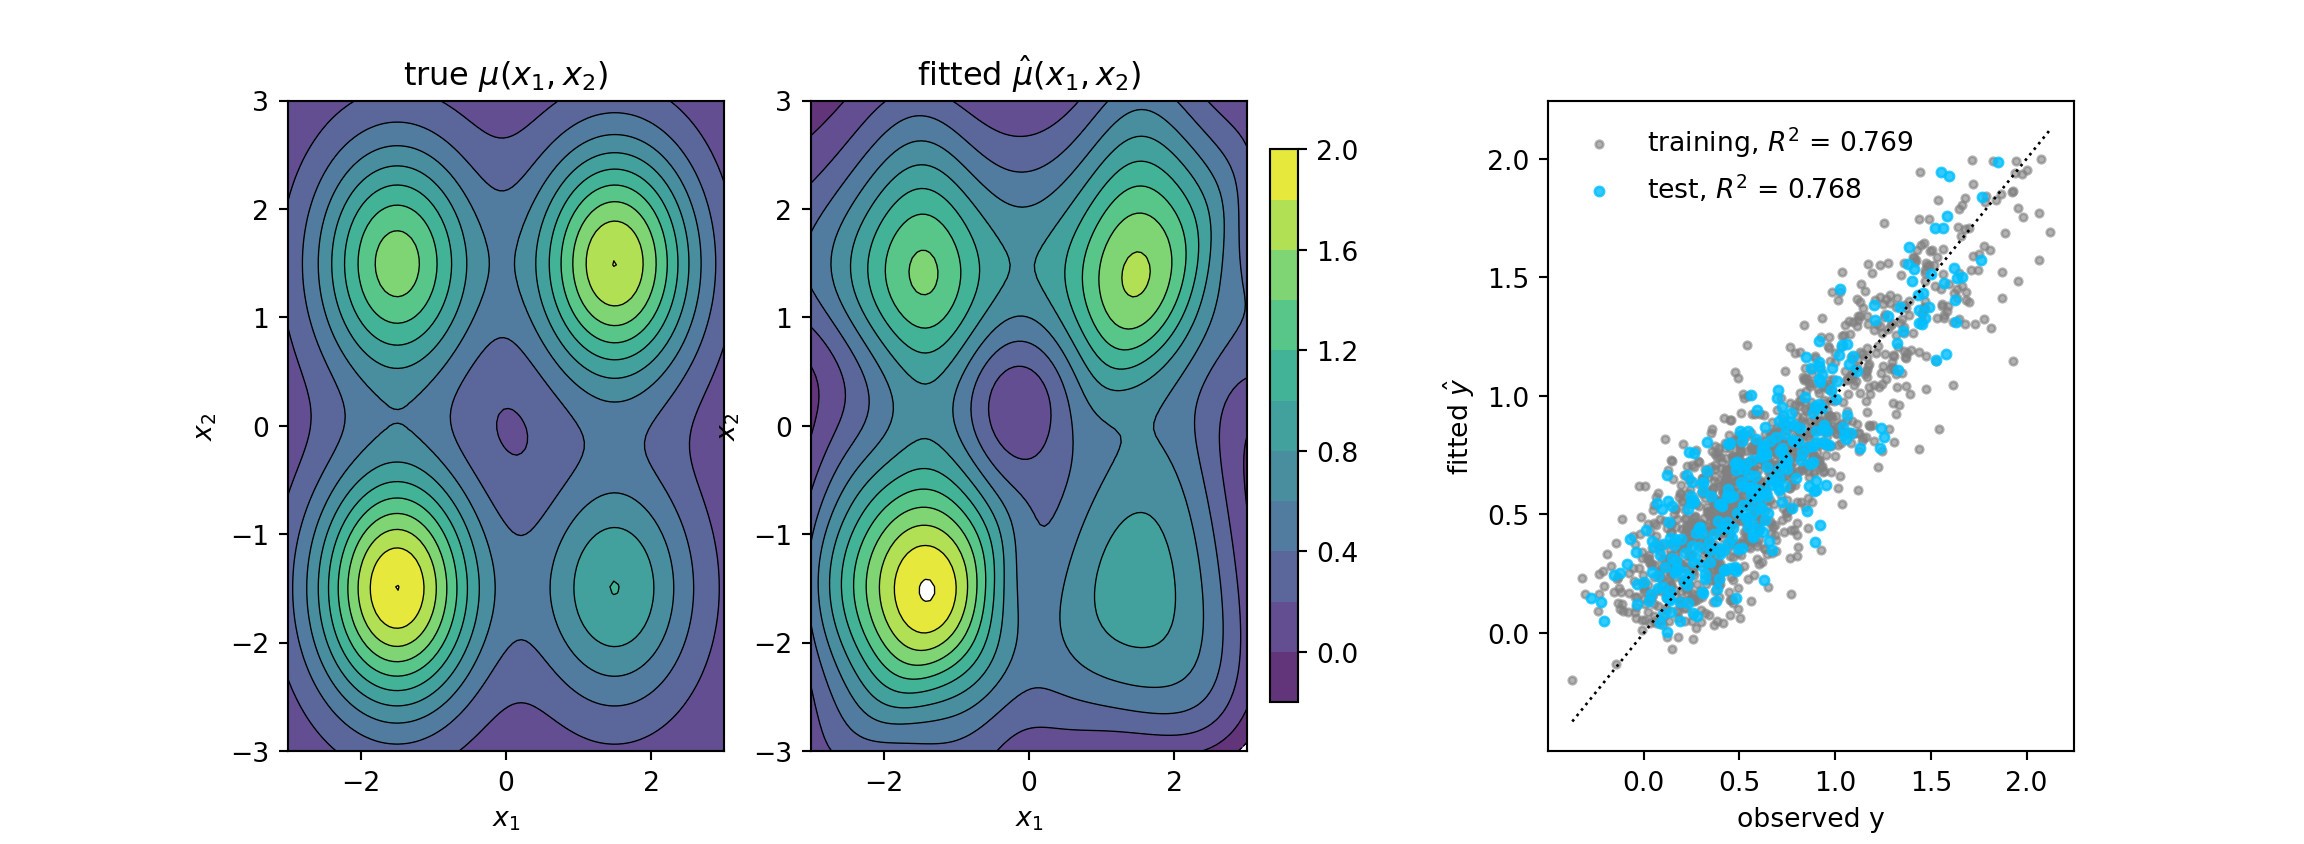
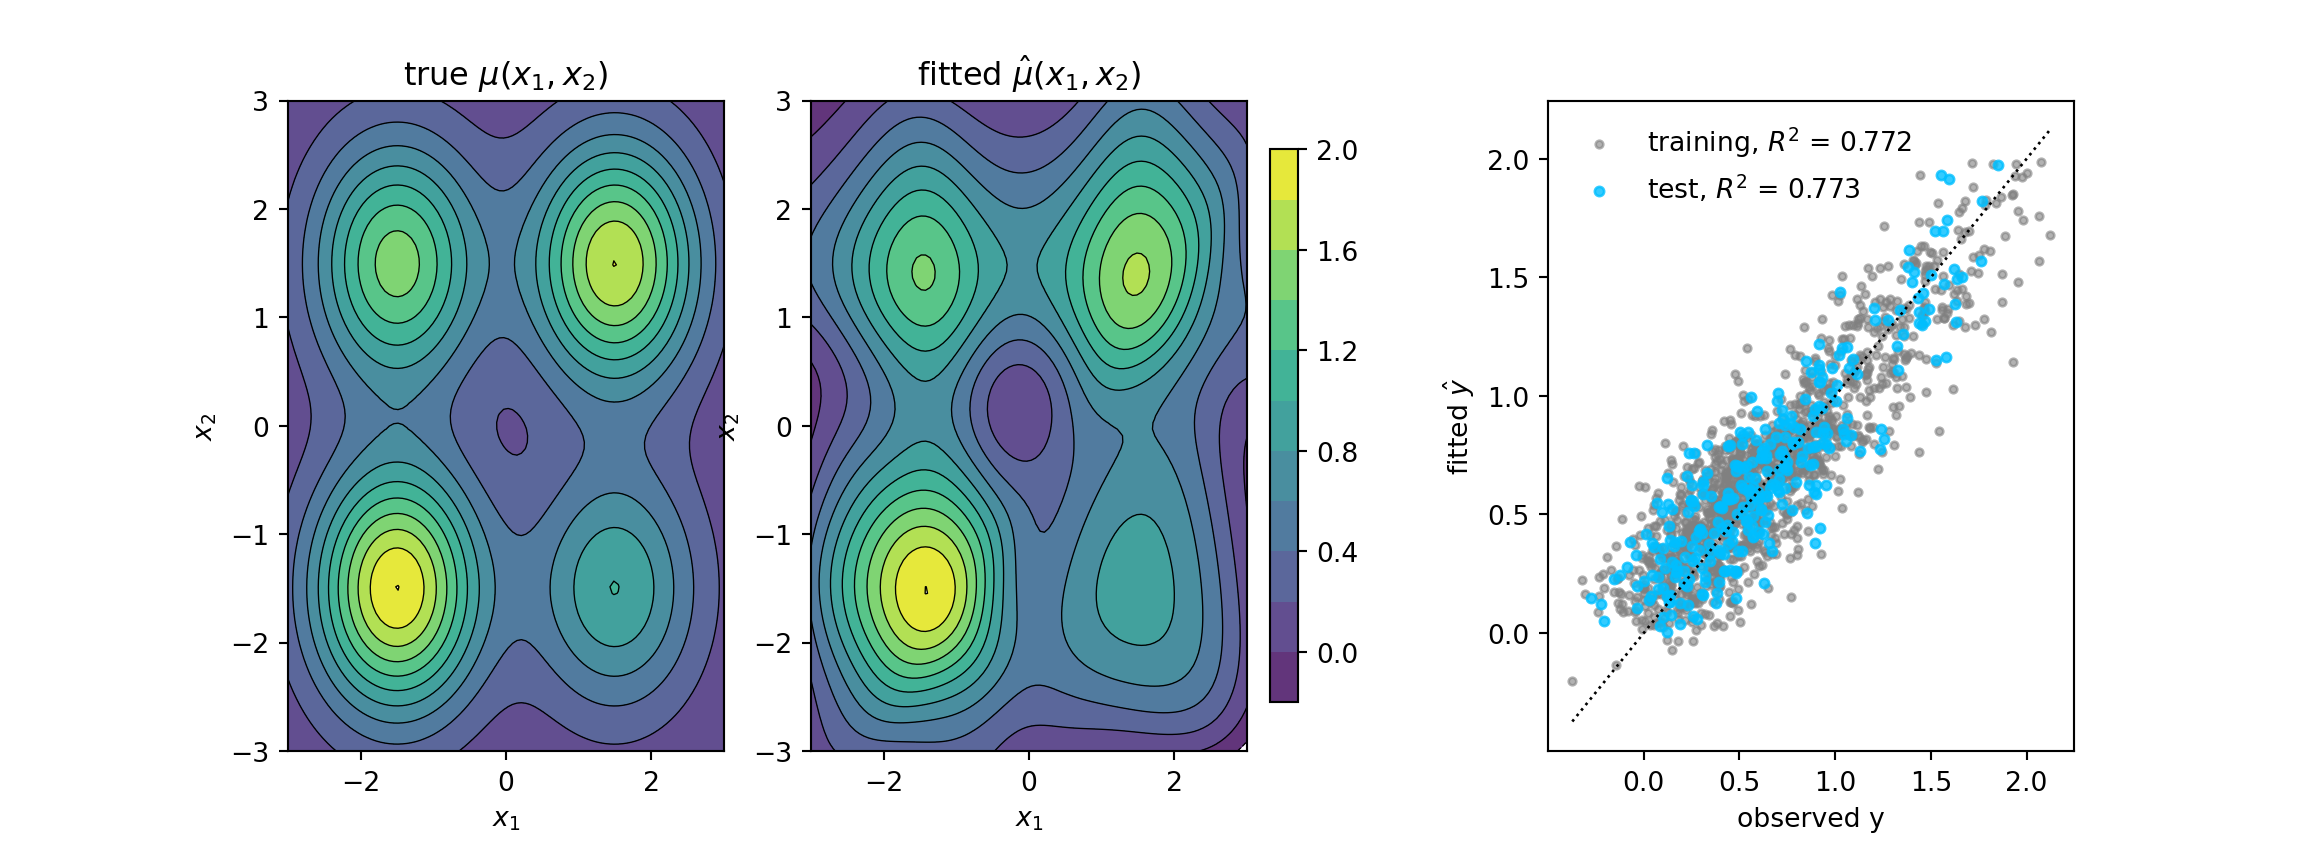
unit05_MLE: use legacy Adam in the TensorFlow example to avoid the M1/M2 slow-optimizer warning
Claude-Session: https://claude.ai/code/session_01Wh2Ga1BaKajzeVmhsLmQ8Y

diff --git a/compstat_book/chapters/unit05_MLE.html b/compstat_book/chapters/unit05_MLE.html
@@ -4801,53 +4801,51 @@ Table&nbsp;5.5: Lists the commonly used software for the optimization methods of
 <span id="cb86-45"><a href="#cb86-45" aria-hidden="true" tabindex="-1"></a>nll <span class="op">=</span> <span class="kw">lambda</span> y, dist: <span class="op">-</span>dist.log_prob(y)        <span class="co"># the loss: negative log-likelihood of the family</span></span>
 <span id="cb86-46"><a href="#cb86-46" aria-hidden="true" tabindex="-1"></a></span>
 <span id="cb86-47"><a href="#cb86-47" aria-hidden="true" tabindex="-1"></a>model <span class="op">=</span> nn_model(p<span class="op">=</span><span class="dv">2</span>, hidden<span class="op">=</span><span class="dv">16</span>, family<span class="op">=</span><span class="st">"gaussian"</span>)</span>
-<span id="cb86-48"><a href="#cb86-48" aria-hidden="true" tabindex="-1"></a>model.<span class="bu">compile</span>(optimizer<span class="op">=</span>tf.keras.optimizers.Adam(learning_rate<span class="op">=</span><span class="fl">0.01</span>), loss<span class="op">=</span>nll)</span></code></pre></div><button title="Copy to Clipboard" class="code-copy-button"><i class="bi"></i></button></div>
+<span id="cb86-48"><a href="#cb86-48" aria-hidden="true" tabindex="-1"></a><span class="co"># legacy.Adam is the same algorithm; the new Adam is slow on Apple-silicon Macs in tf_keras</span></span>
+<span id="cb86-49"><a href="#cb86-49" aria-hidden="true" tabindex="-1"></a>model.<span class="bu">compile</span>(optimizer<span class="op">=</span>tf.keras.optimizers.legacy.Adam(learning_rate<span class="op">=</span><span class="fl">0.01</span>), loss<span class="op">=</span>nll)</span>
+<span id="cb86-50"><a href="#cb86-50" aria-hidden="true" tabindex="-1"></a>history <span class="op">=</span> model.fit(x_tr, y_tr, batch_size<span class="op">=</span><span class="dv">50</span>, epochs<span class="op">=</span><span class="dv">600</span>, verbose<span class="op">=</span><span class="dv">0</span>)   <span class="co"># one epoch = 1200/50 mini-batch steps</span></span>
+<span id="cb86-51"><a href="#cb86-51" aria-hidden="true" tabindex="-1"></a></span>
+<span id="cb86-52"><a href="#cb86-52" aria-hidden="true" tabindex="-1"></a>floor <span class="op">=</span> <span class="fl">0.5</span> <span class="op">*</span> np.log(<span class="dv">2</span> <span class="op">*</span> np.pi) <span class="op">+</span> sigma<span class="op">**</span><span class="dv">2</span> <span class="op">/</span> <span class="dv">2</span>    <span class="co"># smallest expected nll per observation</span></span>
+<span id="cb86-53"><a href="#cb86-53" aria-hidden="true" tabindex="-1"></a><span class="bu">print</span>(<span class="st">"training loss:"</span>, history.history[<span class="st">"loss"</span>][<span class="op">-</span><span class="dv">1</span>], <span class="st">"  noise floor:"</span>, floor)</span></code></pre></div><button title="Copy to Clipboard" class="code-copy-button"><i class="bi"></i></button></div>
 <div class="cell-output cell-output-stdout">
-<pre><code>WARNING:absl:At this time, the v2.11+ optimizer `tf.keras.optimizers.Adam` runs slowly on M1/M2 Macs, please use the legacy TF-Keras optimizer instead, located at `tf.keras.optimizers.legacy.Adam`.</code></pre>
+<pre><code>training loss: 0.944736123085022   noise floor: 0.9389385332046727</code></pre>
 </div>
-<div class="code-copy-outer-scaffold"><div class="sourceCode cell-code" id="cb88"><pre class="sourceCode python code-with-copy"><code class="sourceCode python"><span id="cb88-1"><a href="#cb88-1" aria-hidden="true" tabindex="-1"></a>history <span class="op">=</span> model.fit(x_tr, y_tr, batch_size<span class="op">=</span><span class="dv">50</span>, epochs<span class="op">=</span><span class="dv">600</span>, verbose<span class="op">=</span><span class="dv">0</span>)   <span class="co"># one epoch = 1200/50 mini-batch steps</span></span>
-<span id="cb88-2"><a href="#cb88-2" aria-hidden="true" tabindex="-1"></a></span>
-<span id="cb88-3"><a href="#cb88-3" aria-hidden="true" tabindex="-1"></a>floor <span class="op">=</span> <span class="fl">0.5</span> <span class="op">*</span> np.log(<span class="dv">2</span> <span class="op">*</span> np.pi) <span class="op">+</span> sigma<span class="op">**</span><span class="dv">2</span> <span class="op">/</span> <span class="dv">2</span>    <span class="co"># smallest expected nll per observation</span></span>
-<span id="cb88-4"><a href="#cb88-4" aria-hidden="true" tabindex="-1"></a><span class="bu">print</span>(<span class="st">"training loss:"</span>, history.history[<span class="st">"loss"</span>][<span class="op">-</span><span class="dv">1</span>], <span class="st">"  noise floor:"</span>, floor)</span></code></pre></div><button title="Copy to Clipboard" class="code-copy-button"><i class="bi"></i></button></div>
-<div class="cell-output cell-output-stdout">
-<pre><code>training loss: 0.9447306394577026   noise floor: 0.9389385332046727</code></pre>
-</div>
-<div class="code-copy-outer-scaffold"><div class="sourceCode cell-code" id="cb90"><pre class="sourceCode python code-with-copy"><code class="sourceCode python"><span id="cb90-1"><a href="#cb90-1" aria-hidden="true" tabindex="-1"></a><span class="bu">print</span>(<span class="st">"number of weights:"</span>, model.count_params())</span></code></pre></div><button title="Copy to Clipboard" class="code-copy-button"><i class="bi"></i></button></div>
+<div class="code-copy-outer-scaffold"><div class="sourceCode cell-code" id="cb88"><pre class="sourceCode python code-with-copy"><code class="sourceCode python"><span id="cb88-1"><a href="#cb88-1" aria-hidden="true" tabindex="-1"></a><span class="bu">print</span>(<span class="st">"number of weights:"</span>, model.count_params())</span></code></pre></div><button title="Copy to Clipboard" class="code-copy-button"><i class="bi"></i></button></div>
 <div class="cell-output cell-output-stdout">
 <pre><code>number of weights: 65</code></pre>
 </div>
-<div class="code-copy-outer-scaffold"><div class="sourceCode cell-code" id="cb92"><pre class="sourceCode python code-with-copy"><code class="sourceCode python"><span id="cb92-1"><a href="#cb92-1" aria-hidden="true" tabindex="-1"></a><span class="co"># fitted values, and R^2 = 1 - SSE / SST on each set</span></span>
-<span id="cb92-2"><a href="#cb92-2" aria-hidden="true" tabindex="-1"></a>r2 <span class="op">=</span> <span class="kw">lambda</span> y, yhat: <span class="dv">1</span> <span class="op">-</span> np.<span class="bu">sum</span>((y <span class="op">-</span> yhat)<span class="op">**</span><span class="dv">2</span>) <span class="op">/</span> np.<span class="bu">sum</span>((y <span class="op">-</span> y.mean())<span class="op">**</span><span class="dv">2</span>)</span>
-<span id="cb92-3"><a href="#cb92-3" aria-hidden="true" tabindex="-1"></a>yhat_tr <span class="op">=</span> model.predict(x_tr, verbose<span class="op">=</span><span class="dv">0</span>)</span>
-<span id="cb92-4"><a href="#cb92-4" aria-hidden="true" tabindex="-1"></a>yhat_te <span class="op">=</span> model.predict(x_te, verbose<span class="op">=</span><span class="dv">0</span>)</span>
-<span id="cb92-5"><a href="#cb92-5" aria-hidden="true" tabindex="-1"></a></span>
-<span id="cb92-6"><a href="#cb92-6" aria-hidden="true" tabindex="-1"></a><span class="co"># the true and the fitted mean on a grid, drawn with the same contour levels</span></span>
-<span id="cb92-7"><a href="#cb92-7" aria-hidden="true" tabindex="-1"></a>g <span class="op">=</span> np.linspace(<span class="op">-</span><span class="dv">3</span>, <span class="dv">3</span>, <span class="dv">100</span>, dtype<span class="op">=</span><span class="st">"float32"</span>)</span>
-<span id="cb92-8"><a href="#cb92-8" aria-hidden="true" tabindex="-1"></a>G1, G2 <span class="op">=</span> np.meshgrid(g, g)</span>
-<span id="cb92-9"><a href="#cb92-9" aria-hidden="true" tabindex="-1"></a>grid <span class="op">=</span> np.column_stack([G1.ravel(), G2.ravel()])</span>
-<span id="cb92-10"><a href="#cb92-10" aria-hidden="true" tabindex="-1"></a>Z_true <span class="op">=</span> mu_true(grid).reshape(G1.shape)</span>
-<span id="cb92-11"><a href="#cb92-11" aria-hidden="true" tabindex="-1"></a>Z_fit <span class="op">=</span> model.predict(grid, verbose<span class="op">=</span><span class="dv">0</span>).reshape(G1.shape)</span>
-<span id="cb92-12"><a href="#cb92-12" aria-hidden="true" tabindex="-1"></a>levels <span class="op">=</span> np.linspace(<span class="op">-</span><span class="fl">0.2</span>, <span class="fl">2.0</span>, <span class="dv">12</span>)</span>
-<span id="cb92-13"><a href="#cb92-13" aria-hidden="true" tabindex="-1"></a></span>
-<span id="cb92-14"><a href="#cb92-14" aria-hidden="true" tabindex="-1"></a>fig, ax <span class="op">=</span> plt.subplots(<span class="dv">1</span>, <span class="dv">3</span>, figsize<span class="op">=</span>(<span class="dv">12</span>, <span class="fl">4.4</span>))</span>
-<span id="cb92-15"><a href="#cb92-15" aria-hidden="true" tabindex="-1"></a><span class="cf">for</span> a, Z, title <span class="kw">in</span> [(ax[<span class="dv">0</span>], Z_true, <span class="vs">r"true </span><span class="dv">$\m</span><span class="vs">u</span><span class="kw">(</span><span class="vs">x_1, x_2</span><span class="kw">)</span><span class="dv">$</span><span class="vs">"</span>), (ax[<span class="dv">1</span>], Z_fit, <span class="vs">r"fitted </span><span class="dv">$</span><span class="er">\</span><span class="vs">hat</span><span class="dv">\m</span><span class="vs">u</span><span class="kw">(</span><span class="vs">x_1, x_2</span><span class="kw">)</span><span class="dv">$</span><span class="vs">"</span>)]:</span>
-<span id="cb92-16"><a href="#cb92-16" aria-hidden="true" tabindex="-1"></a>    cs <span class="op">=</span> a.contourf(G1, G2, Z, levels<span class="op">=</span>levels, cmap<span class="op">=</span><span class="st">"viridis"</span>, alpha<span class="op">=</span><span class="fl">0.85</span>)</span>
-<span id="cb92-17"><a href="#cb92-17" aria-hidden="true" tabindex="-1"></a>    a.contour(G1, G2, Z, levels<span class="op">=</span>levels, colors<span class="op">=</span><span class="st">"k"</span>, linewidths<span class="op">=</span><span class="fl">0.5</span>)</span>
-<span id="cb92-18"><a href="#cb92-18" aria-hidden="true" tabindex="-1"></a>    a.set_title(title)<span class="op">;</span> a.set_xlabel(<span class="vs">r"</span><span class="dv">$</span><span class="vs">x_1</span><span class="dv">$</span><span class="vs">"</span>)<span class="op">;</span> a.set_ylabel(<span class="vs">r"</span><span class="dv">$</span><span class="vs">x_2</span><span class="dv">$</span><span class="vs">"</span>)</span>
-<span id="cb92-19"><a href="#cb92-19" aria-hidden="true" tabindex="-1"></a>fig.colorbar(cs, ax<span class="op">=</span>ax[:<span class="dv">2</span>], shrink<span class="op">=</span><span class="fl">0.85</span>, pad<span class="op">=</span><span class="fl">0.02</span>)</span></code></pre></div><button title="Copy to Clipboard" class="code-copy-button"><i class="bi"></i></button></div>
+<div class="code-copy-outer-scaffold"><div class="sourceCode cell-code" id="cb90"><pre class="sourceCode python code-with-copy"><code class="sourceCode python"><span id="cb90-1"><a href="#cb90-1" aria-hidden="true" tabindex="-1"></a><span class="co"># fitted values, and R^2 = 1 - SSE / SST on each set</span></span>
+<span id="cb90-2"><a href="#cb90-2" aria-hidden="true" tabindex="-1"></a>r2 <span class="op">=</span> <span class="kw">lambda</span> y, yhat: <span class="dv">1</span> <span class="op">-</span> np.<span class="bu">sum</span>((y <span class="op">-</span> yhat)<span class="op">**</span><span class="dv">2</span>) <span class="op">/</span> np.<span class="bu">sum</span>((y <span class="op">-</span> y.mean())<span class="op">**</span><span class="dv">2</span>)</span>
+<span id="cb90-3"><a href="#cb90-3" aria-hidden="true" tabindex="-1"></a>yhat_tr <span class="op">=</span> model.predict(x_tr, verbose<span class="op">=</span><span class="dv">0</span>)</span>
+<span id="cb90-4"><a href="#cb90-4" aria-hidden="true" tabindex="-1"></a>yhat_te <span class="op">=</span> model.predict(x_te, verbose<span class="op">=</span><span class="dv">0</span>)</span>
+<span id="cb90-5"><a href="#cb90-5" aria-hidden="true" tabindex="-1"></a></span>
+<span id="cb90-6"><a href="#cb90-6" aria-hidden="true" tabindex="-1"></a><span class="co"># the true and the fitted mean on a grid, drawn with the same contour levels</span></span>
+<span id="cb90-7"><a href="#cb90-7" aria-hidden="true" tabindex="-1"></a>g <span class="op">=</span> np.linspace(<span class="op">-</span><span class="dv">3</span>, <span class="dv">3</span>, <span class="dv">100</span>, dtype<span class="op">=</span><span class="st">"float32"</span>)</span>
+<span id="cb90-8"><a href="#cb90-8" aria-hidden="true" tabindex="-1"></a>G1, G2 <span class="op">=</span> np.meshgrid(g, g)</span>
+<span id="cb90-9"><a href="#cb90-9" aria-hidden="true" tabindex="-1"></a>grid <span class="op">=</span> np.column_stack([G1.ravel(), G2.ravel()])</span>
+<span id="cb90-10"><a href="#cb90-10" aria-hidden="true" tabindex="-1"></a>Z_true <span class="op">=</span> mu_true(grid).reshape(G1.shape)</span>
+<span id="cb90-11"><a href="#cb90-11" aria-hidden="true" tabindex="-1"></a>Z_fit <span class="op">=</span> model.predict(grid, verbose<span class="op">=</span><span class="dv">0</span>).reshape(G1.shape)</span>
+<span id="cb90-12"><a href="#cb90-12" aria-hidden="true" tabindex="-1"></a>levels <span class="op">=</span> np.linspace(<span class="op">-</span><span class="fl">0.2</span>, <span class="fl">2.0</span>, <span class="dv">12</span>)</span>
+<span id="cb90-13"><a href="#cb90-13" aria-hidden="true" tabindex="-1"></a></span>
+<span id="cb90-14"><a href="#cb90-14" aria-hidden="true" tabindex="-1"></a>fig, ax <span class="op">=</span> plt.subplots(<span class="dv">1</span>, <span class="dv">3</span>, figsize<span class="op">=</span>(<span class="dv">12</span>, <span class="fl">4.4</span>))</span>
+<span id="cb90-15"><a href="#cb90-15" aria-hidden="true" tabindex="-1"></a><span class="cf">for</span> a, Z, title <span class="kw">in</span> [(ax[<span class="dv">0</span>], Z_true, <span class="vs">r"true </span><span class="dv">$\m</span><span class="vs">u</span><span class="kw">(</span><span class="vs">x_1, x_2</span><span class="kw">)</span><span class="dv">$</span><span class="vs">"</span>), (ax[<span class="dv">1</span>], Z_fit, <span class="vs">r"fitted </span><span class="dv">$</span><span class="er">\</span><span class="vs">hat</span><span class="dv">\m</span><span class="vs">u</span><span class="kw">(</span><span class="vs">x_1, x_2</span><span class="kw">)</span><span class="dv">$</span><span class="vs">"</span>)]:</span>
+<span id="cb90-16"><a href="#cb90-16" aria-hidden="true" tabindex="-1"></a>    cs <span class="op">=</span> a.contourf(G1, G2, Z, levels<span class="op">=</span>levels, cmap<span class="op">=</span><span class="st">"viridis"</span>, alpha<span class="op">=</span><span class="fl">0.85</span>)</span>
+<span id="cb90-17"><a href="#cb90-17" aria-hidden="true" tabindex="-1"></a>    a.contour(G1, G2, Z, levels<span class="op">=</span>levels, colors<span class="op">=</span><span class="st">"k"</span>, linewidths<span class="op">=</span><span class="fl">0.5</span>)</span>
+<span id="cb90-18"><a href="#cb90-18" aria-hidden="true" tabindex="-1"></a>    a.set_title(title)<span class="op">;</span> a.set_xlabel(<span class="vs">r"</span><span class="dv">$</span><span class="vs">x_1</span><span class="dv">$</span><span class="vs">"</span>)<span class="op">;</span> a.set_ylabel(<span class="vs">r"</span><span class="dv">$</span><span class="vs">x_2</span><span class="dv">$</span><span class="vs">"</span>)</span>
+<span id="cb90-19"><a href="#cb90-19" aria-hidden="true" tabindex="-1"></a>fig.colorbar(cs, ax<span class="op">=</span>ax[:<span class="dv">2</span>], shrink<span class="op">=</span><span class="fl">0.85</span>, pad<span class="op">=</span><span class="fl">0.02</span>)</span></code></pre></div><button title="Copy to Clipboard" class="code-copy-button"><i class="bi"></i></button></div>
 <div class="cell-output cell-output-stdout">
-<pre><code>&lt;matplotlib.colorbar.Colorbar object at 0x122d3d550&gt;</code></pre>
+<pre><code>&lt;matplotlib.colorbar.Colorbar object at 0x123f816a0&gt;</code></pre>
 </div>
-<div class="code-copy-outer-scaffold"><div class="sourceCode cell-code" id="cb94"><pre class="sourceCode python code-with-copy"><code class="sourceCode python"><span id="cb94-1"><a href="#cb94-1" aria-hidden="true" tabindex="-1"></a><span class="co"># right: fitted value against observed response</span></span>
-<span id="cb94-2"><a href="#cb94-2" aria-hidden="true" tabindex="-1"></a>ax[<span class="dv">2</span>].scatter(y_tr, yhat_tr, s<span class="op">=</span><span class="dv">8</span>, color<span class="op">=</span><span class="st">"grey"</span>, alpha<span class="op">=</span><span class="fl">0.6</span>,</span>
-<span id="cb94-3"><a href="#cb94-3" aria-hidden="true" tabindex="-1"></a>              label<span class="op">=</span><span class="ss">f"training, $R^2$ = </span><span class="sc">{</span>r2(y_tr, yhat_tr)<span class="sc">:.3f}</span><span class="ss">"</span>)</span>
-<span id="cb94-4"><a href="#cb94-4" aria-hidden="true" tabindex="-1"></a>ax[<span class="dv">2</span>].scatter(y_te, yhat_te, s<span class="op">=</span><span class="dv">12</span>, color<span class="op">=</span><span class="st">"deepskyblue"</span>, alpha<span class="op">=</span><span class="fl">0.8</span>,</span>
-<span id="cb94-5"><a href="#cb94-5" aria-hidden="true" tabindex="-1"></a>              label<span class="op">=</span><span class="ss">f"test, $R^2$ = </span><span class="sc">{</span>r2(y_te, yhat_te)<span class="sc">:.3f}</span><span class="ss">"</span>)</span>
-<span id="cb94-6"><a href="#cb94-6" aria-hidden="true" tabindex="-1"></a>lim <span class="op">=</span> [y.<span class="bu">min</span>(), y.<span class="bu">max</span>()]</span>
-<span id="cb94-7"><a href="#cb94-7" aria-hidden="true" tabindex="-1"></a>ax[<span class="dv">2</span>].plot(lim, lim, <span class="st">"k:"</span>, lw<span class="op">=</span><span class="dv">1</span>)</span>
-<span id="cb94-8"><a href="#cb94-8" aria-hidden="true" tabindex="-1"></a>ax[<span class="dv">2</span>].set_xlabel(<span class="st">"observed y"</span>)<span class="op">;</span> ax[<span class="dv">2</span>].set_ylabel(<span class="vs">r"fitted </span><span class="dv">$</span><span class="er">\</span><span class="vs">hat{y}</span><span class="dv">$</span><span class="vs">"</span>)</span>
-<span id="cb94-9"><a href="#cb94-9" aria-hidden="true" tabindex="-1"></a>ax[<span class="dv">2</span>].legend(frameon<span class="op">=</span><span class="va">False</span>, loc<span class="op">=</span><span class="st">"upper left"</span>)</span>
-<span id="cb94-10"><a href="#cb94-10" aria-hidden="true" tabindex="-1"></a>plt.show()</span></code></pre></div><button title="Copy to Clipboard" class="code-copy-button"><i class="bi"></i></button></div>
+<div class="code-copy-outer-scaffold"><div class="sourceCode cell-code" id="cb92"><pre class="sourceCode python code-with-copy"><code class="sourceCode python"><span id="cb92-1"><a href="#cb92-1" aria-hidden="true" tabindex="-1"></a><span class="co"># right: fitted value against observed response</span></span>
+<span id="cb92-2"><a href="#cb92-2" aria-hidden="true" tabindex="-1"></a>ax[<span class="dv">2</span>].scatter(y_tr, yhat_tr, s<span class="op">=</span><span class="dv">8</span>, color<span class="op">=</span><span class="st">"grey"</span>, alpha<span class="op">=</span><span class="fl">0.6</span>,</span>
+<span id="cb92-3"><a href="#cb92-3" aria-hidden="true" tabindex="-1"></a>              label<span class="op">=</span><span class="ss">f"training, $R^2$ = </span><span class="sc">{</span>r2(y_tr, yhat_tr)<span class="sc">:.3f}</span><span class="ss">"</span>)</span>
+<span id="cb92-4"><a href="#cb92-4" aria-hidden="true" tabindex="-1"></a>ax[<span class="dv">2</span>].scatter(y_te, yhat_te, s<span class="op">=</span><span class="dv">12</span>, color<span class="op">=</span><span class="st">"deepskyblue"</span>, alpha<span class="op">=</span><span class="fl">0.8</span>,</span>
+<span id="cb92-5"><a href="#cb92-5" aria-hidden="true" tabindex="-1"></a>              label<span class="op">=</span><span class="ss">f"test, $R^2$ = </span><span class="sc">{</span>r2(y_te, yhat_te)<span class="sc">:.3f}</span><span class="ss">"</span>)</span>
+<span id="cb92-6"><a href="#cb92-6" aria-hidden="true" tabindex="-1"></a>lim <span class="op">=</span> [y.<span class="bu">min</span>(), y.<span class="bu">max</span>()]</span>
+<span id="cb92-7"><a href="#cb92-7" aria-hidden="true" tabindex="-1"></a>ax[<span class="dv">2</span>].plot(lim, lim, <span class="st">"k:"</span>, lw<span class="op">=</span><span class="dv">1</span>)</span>
+<span id="cb92-8"><a href="#cb92-8" aria-hidden="true" tabindex="-1"></a>ax[<span class="dv">2</span>].set_xlabel(<span class="st">"observed y"</span>)<span class="op">;</span> ax[<span class="dv">2</span>].set_ylabel(<span class="vs">r"fitted </span><span class="dv">$</span><span class="er">\</span><span class="vs">hat{y}</span><span class="dv">$</span><span class="vs">"</span>)</span>
+<span id="cb92-9"><a href="#cb92-9" aria-hidden="true" tabindex="-1"></a>ax[<span class="dv">2</span>].legend(frameon<span class="op">=</span><span class="va">False</span>, loc<span class="op">=</span><span class="st">"upper left"</span>)</span>
+<span id="cb92-10"><a href="#cb92-10" aria-hidden="true" tabindex="-1"></a>plt.show()</span></code></pre></div><button title="Copy to Clipboard" class="code-copy-button"><i class="bi"></i></button></div>
 <div class="cell-output-display">
 <div id="fig-tf-gaussian-nn" class="quarto-float quarto-figure quarto-figure-center anchored">
 <figure class="quarto-float quarto-float-fig figure">
